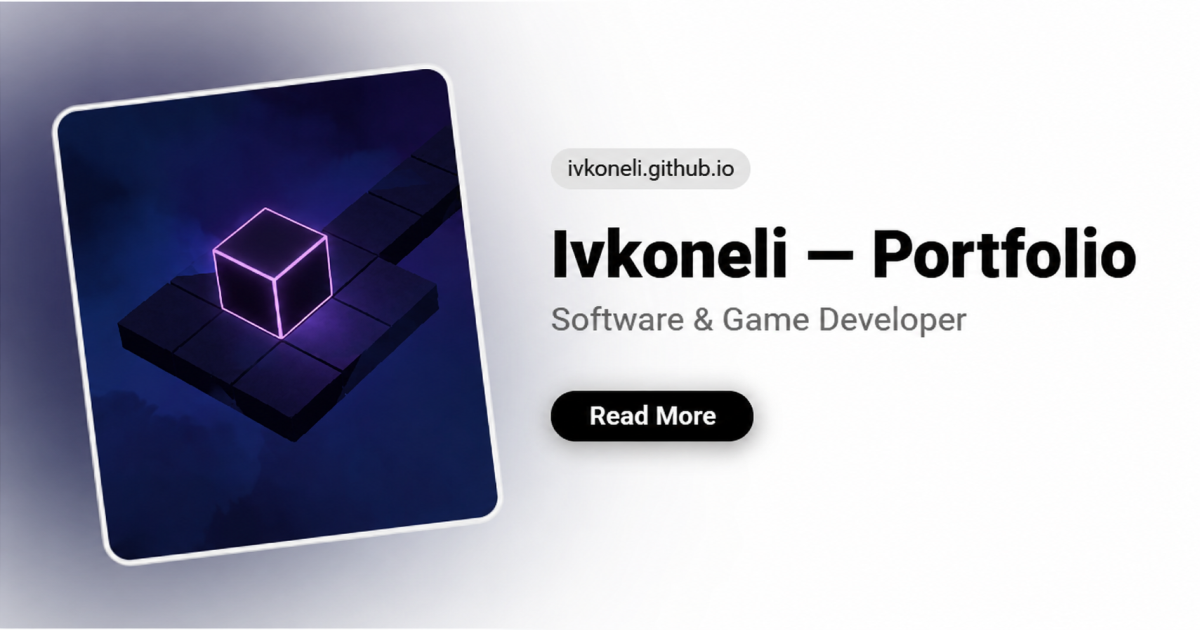
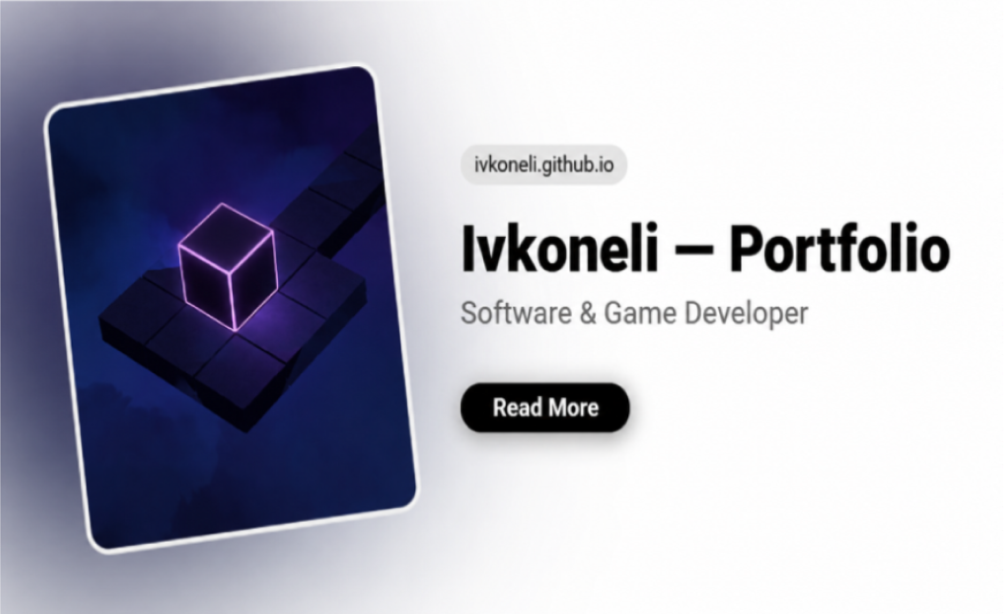
Updates

diff --git a/index.html b/index.html
@@ -16,7 +16,7 @@
     <meta property="og:url" content="https://ivkoneli.github.io/Portfolio/" />
     <meta property="og:title" content="Ivkoneli — Software & Game Developer" />
     <meta property="og:description" content="An interactive 3D portfolio you explore by rolling a cube around a board. Software & game developer." />
-    <meta property="og:image" content="https://ivkoneli.github.io/Portfolio/og.png?v=3" />
+    <meta property="og:image" content="https://ivkoneli.github.io/Portfolio/og.png?v=2" />
     <meta property="og:image:width" content="1200" />
     <meta property="og:image:height" content="630" />
 
@@ -25,7 +25,7 @@
     <meta name="twitter:card" content="summary_large_image" />
     <meta name="twitter:title" content="Ivkoneli — Software & Game Developer" />
     <meta name="twitter:description" content="An interactive 3D portfolio you explore by rolling a cube around a board. Software & game developer." />
-    <meta name="twitter:image" content="https://ivkoneli.github.io/Portfolio/og.png?v=3" />
+    <meta name="twitter:image" content="https://ivkoneli.github.io/Portfolio/og.png?v=2" />
     <style>
       * { margin: 0; padding: 0; box-sizing: border-box; }
       body { background: #0a0a0f; overflow: hidden; width: 100vw; height: 100vh; }